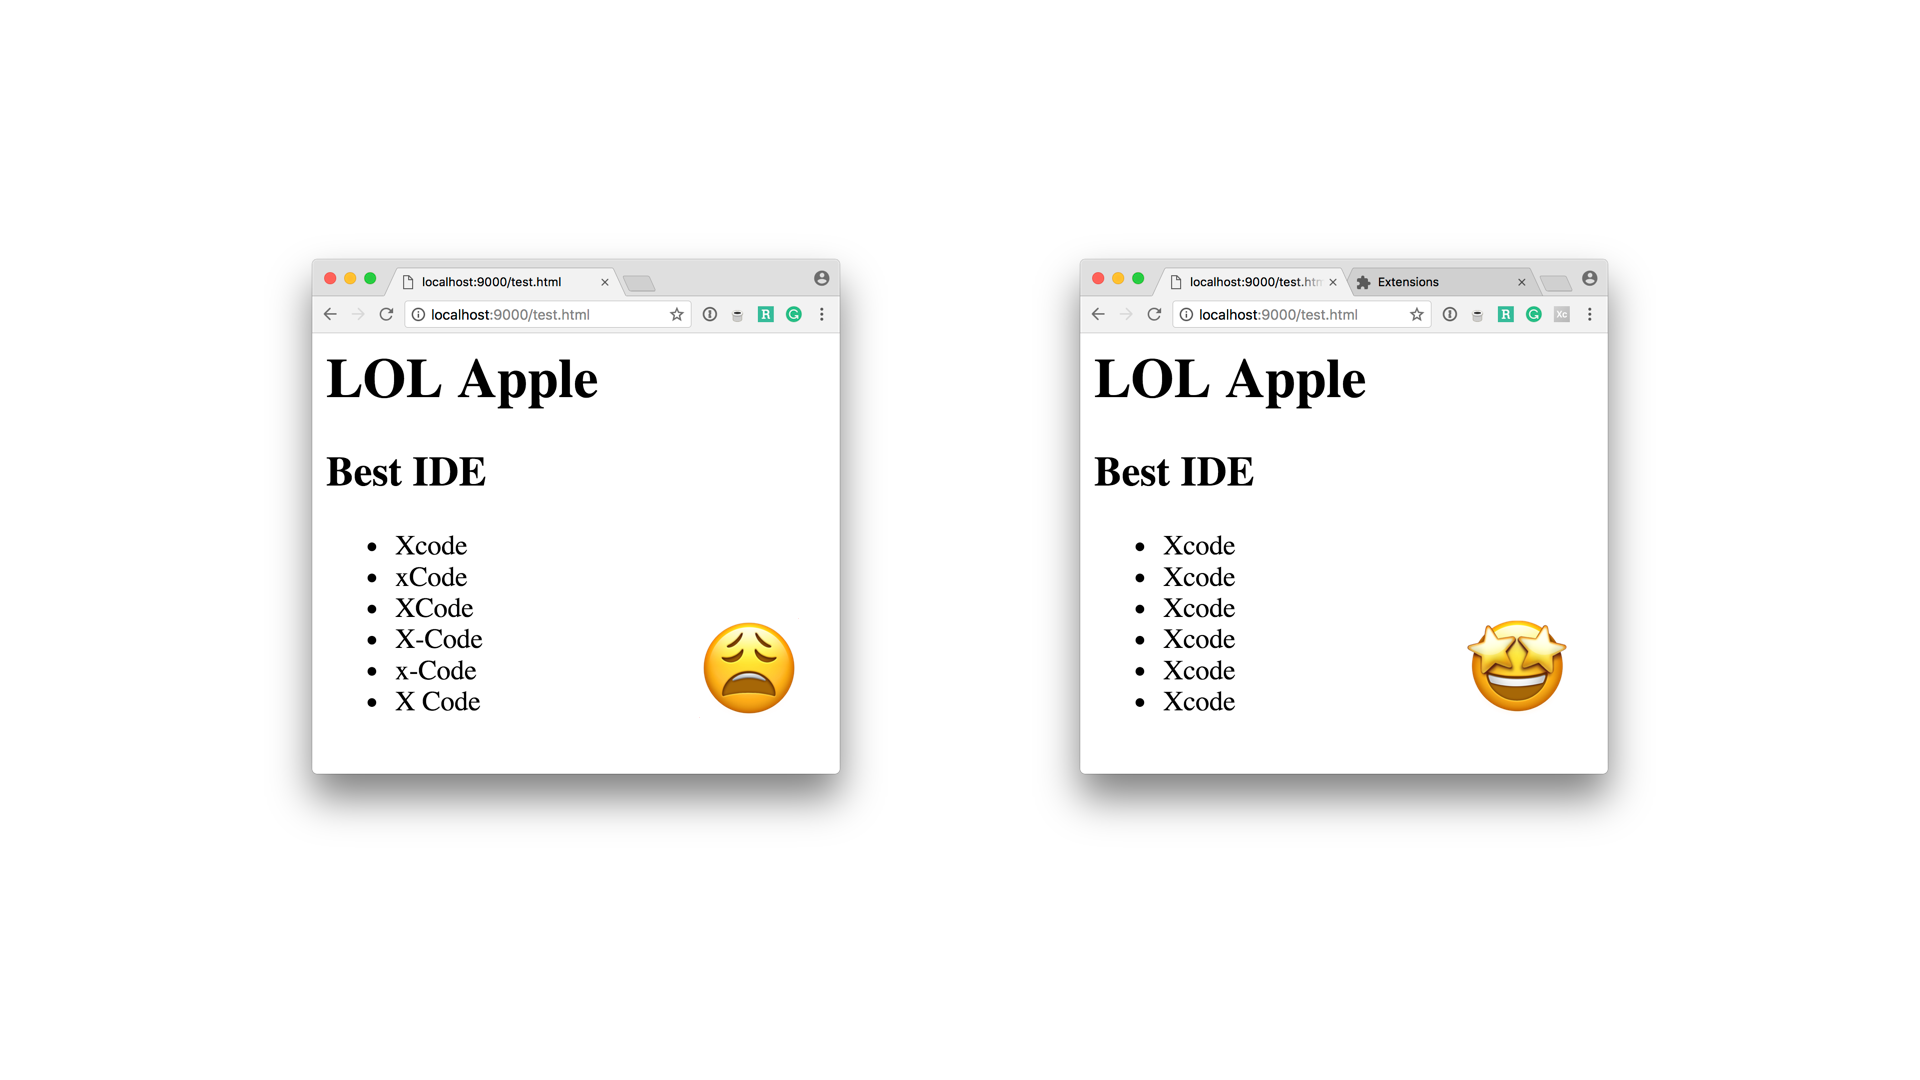
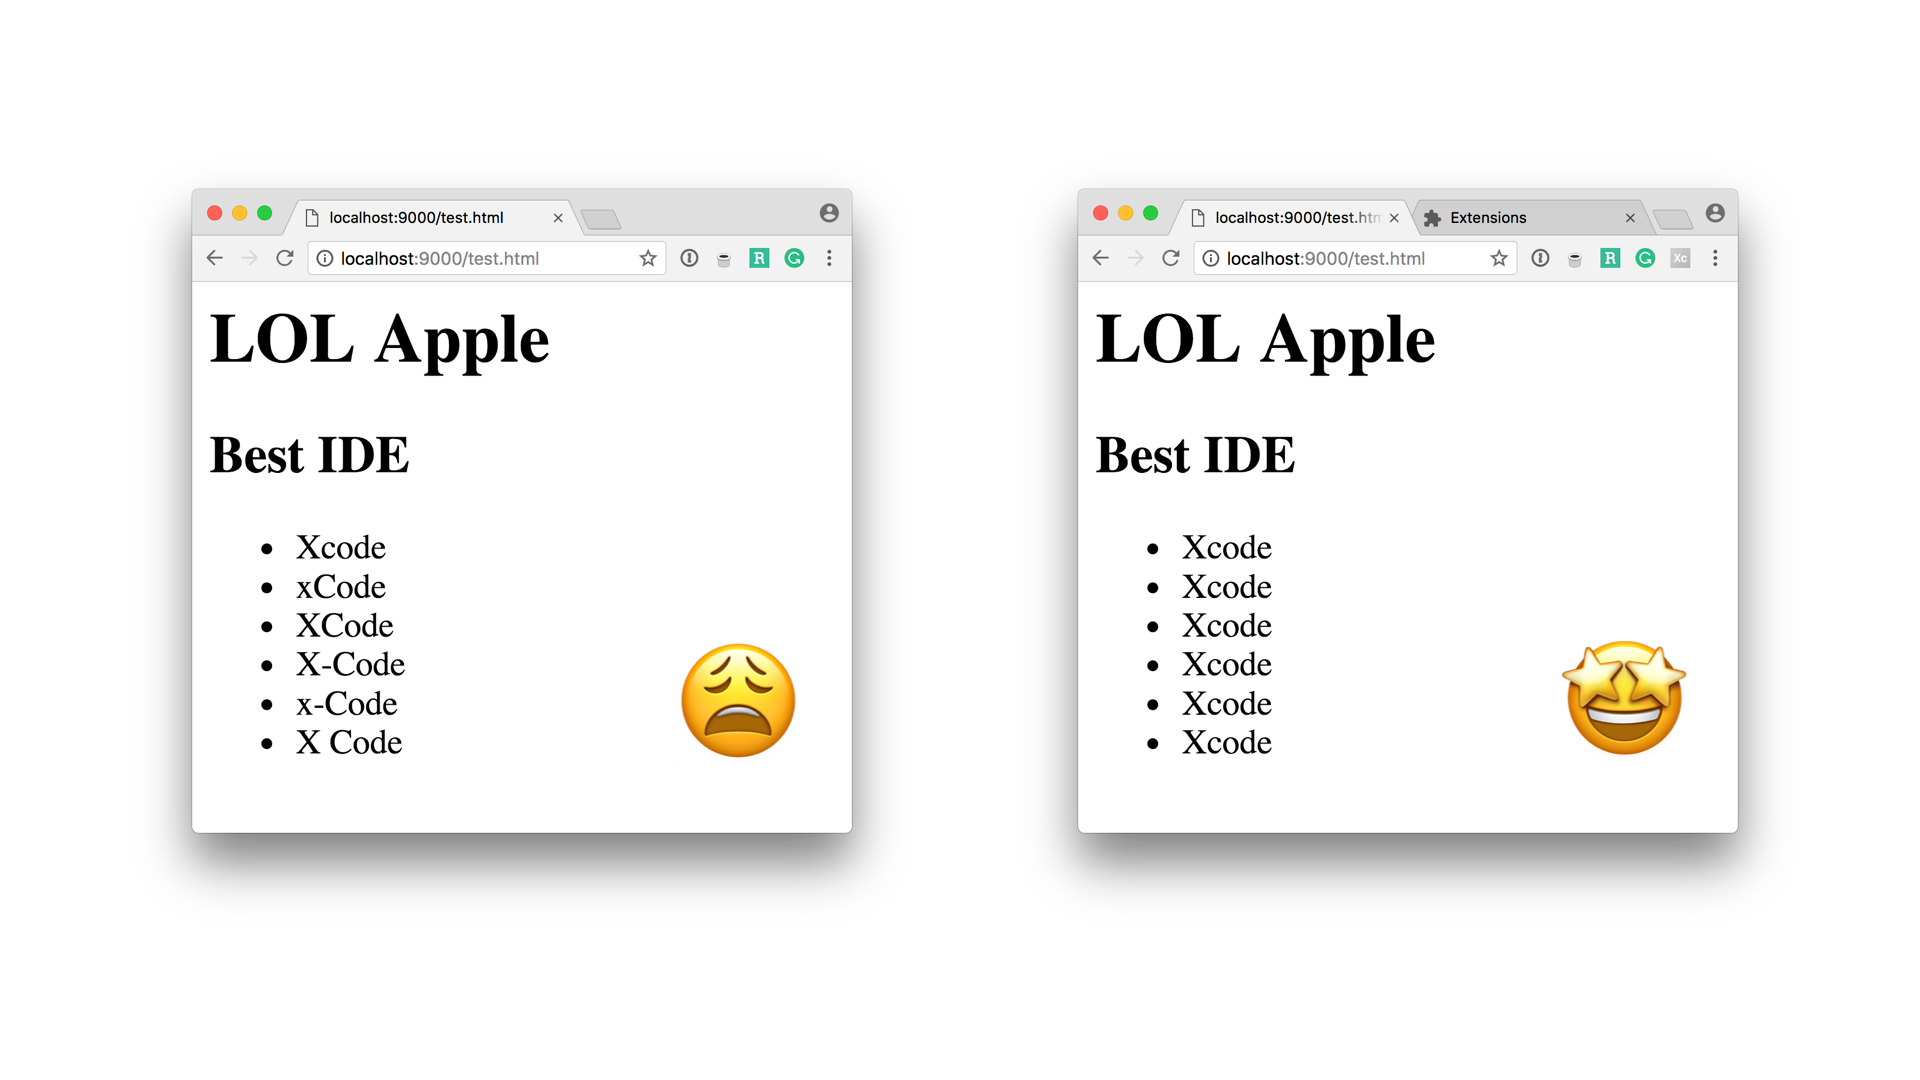
Make B/A image bigger

Changed region(s): [[0.0625, 0.1528, 0.4688, 0.825], [0.5312, 0.1528, 0.9375, 0.825]]

diff --git a/README.md b/README.md
@@ -9,7 +9,7 @@ Do you want to bang your head against a wall every time someone writes *XCode*? 
 ## Before/After
 
 <p align="center">
-    <img src="BeforeAfter.png" width="480" max-width="90%" alt="Before / After" />
+    <img src="BeforeAfter.png" width="1080" max-width="90%" alt="Before / After" />
 </p>
 
 ## Installing
